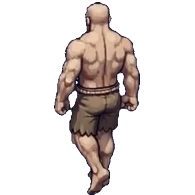
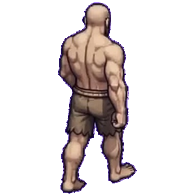
BUILD 412: new 6-frame back-view up walk from user strip
User-supplied 6-frame back-view walk strip (blue bg, bottom of the sent
image; top was glitch noise) extracted, blue-keyed, scaled x0.5239 to
match the current up figure size, feet-anchored on 195x195.
bare/blue/bow up walk now uses the 6-frame strip; sword keeps its 9
sword-in-hand up frames (BUILD 409). frameViews extended to 91.
Sim 43695 passed.

Changed region(s): [[0.2769, 0.0, 0.7385, 1.0]]

diff --git a/index.html b/index.html
@@ -1,1 +1,1 @@
-<!doctype html><html lang="en"><head><!-- BUILD309-VIEWPORT-FIX-MARKER --><meta charset="UTF-8"><meta name="viewport" content="width=device-width, initial-scale=1.0, maximum-scale=1.0, user-scalable=no"><meta name="theme-color" content="#17362e"><link rel="icon" type="image/svg+xml" href="favicon.svg"><meta name="description" content="Explore Mosslight Crossing in the Adventure Game field journal."><title>Adventure Game — Mosslight Crossing</title></head><body><div id="root"></div><script>window.__AG_BUILD="411";(function(){var shown=false;function code(m){var h=0,s=window.__AG_BUILD+"|"+m;for(var i=0;i<s.length;i++){h=(Math.imul(h,31)+s.charCodeAt(i))|0;}return "AG"+window.__AG_BUILD+"-"+(h>>>0).toString(36).toUpperCase().padStart(6,"0").slice(-5);}function show(m,k){if(shown||window.__agBooted)return;shown=true;var d=document.createElement("div");d.id="ag-boot-crash";var p=document.createElement("div");p.className="ag-boot-panel";var t=document.createElement("div");t.className="ag-boot-title";t.textContent="\u26a0 GAME FAILED TO START";var c=document.createElement("div");c.className="ag-boot-code";c.textContent=code(String(m));var g=document.createElement("div");g.className="ag-boot-msg";g.textContent=String(m).slice(0,300);var n=document.createElement("div");n.className="ag-boot-kind";n.textContent=k;var b=document.createElement("button");b.textContent="Reload game";b.onclick=function(){location.reload();};p.appendChild(t);p.appendChild(c);p.appendChild(g);p.appendChild(n);p.appendChild(b);d.appendChild(p);document.body.appendChild(d);}window.addEventListener("error",function(e){if(e.target&&e.target!==window)return;show(e.message||"script error","boot error");},true);window.addEventListener("unhandledrejection",function(e){var r=e.reason;show((r&&(r.message||r))||"rejection","boot rejection");});setTimeout(function(){if(!window.__agBooted)show("The game did not finish loading in time.","load timeout");},20000);})();</script><style>#ag-boot-crash{position:fixed;inset:0;z-index:99999;background:#0d1a16;display:flex;align-items:center;justify-content:center;padding:24px}#ag-boot-crash .ag-boot-panel{max-width:420px;width:100%;background:#14261f;border:1px solid #2c4a3e;border-radius:12px;padding:24px;text-align:center;color:#e8f0e9;font-family:system-ui,sans-serif}#ag-boot-crash .ag-boot-title{font-size:20px;font-weight:800;letter-spacing:.5px}#ag-boot-crash .ag-boot-code{font-family:monospace;font-size:22px;color:#ffd75e;margin:12px 0;letter-spacing:1px}#ag-boot-crash .ag-boot-msg{font-size:13px;color:#b9c9bd;word-break:break-word}#ag-boot-crash .ag-boot-kind{font-size:11px;color:#7d8f83;margin-top:8px;text-transform:uppercase;letter-spacing:1px}#ag-boot-crash button{margin-top:16px;background:#e8a33d;border:0;border-radius:8px;padding:10px 22px;font-size:15px;font-weight:700;color:#231603;cursor:pointer}</style><script type="module" src="/src/main.tsx"></script></body></html>
+<!doctype html><html lang="en"><head><!-- BUILD309-VIEWPORT-FIX-MARKER --><meta charset="UTF-8"><meta name="viewport" content="width=device-width, initial-scale=1.0, maximum-scale=1.0, user-scalable=no"><meta name="theme-color" content="#17362e"><link rel="icon" type="image/svg+xml" href="favicon.svg"><meta name="description" content="Explore Mosslight Crossing in the Adventure Game field journal."><title>Adventure Game — Mosslight Crossing</title></head><body><div id="root"></div><script>window.__AG_BUILD="412";(function(){var shown=false;function code(m){var h=0,s=window.__AG_BUILD+"|"+m;for(var i=0;i<s.length;i++){h=(Math.imul(h,31)+s.charCodeAt(i))|0;}return "AG"+window.__AG_BUILD+"-"+(h>>>0).toString(36).toUpperCase().padStart(6,"0").slice(-5);}function show(m,k){if(shown||window.__agBooted)return;shown=true;var d=document.createElement("div");d.id="ag-boot-crash";var p=document.createElement("div");p.className="ag-boot-panel";var t=document.createElement("div");t.className="ag-boot-title";t.textContent="\u26a0 GAME FAILED TO START";var c=document.createElement("div");c.className="ag-boot-code";c.textContent=code(String(m));var g=document.createElement("div");g.className="ag-boot-msg";g.textContent=String(m).slice(0,300);var n=document.createElement("div");n.className="ag-boot-kind";n.textContent=k;var b=document.createElement("button");b.textContent="Reload game";b.onclick=function(){location.reload();};p.appendChild(t);p.appendChild(c);p.appendChild(g);p.appendChild(n);p.appendChild(b);d.appendChild(p);document.body.appendChild(d);}window.addEventListener("error",function(e){if(e.target&&e.target!==window)return;show(e.message||"script error","boot error");},true);window.addEventListener("unhandledrejection",function(e){var r=e.reason;show((r&&(r.message||r))||"rejection","boot rejection");});setTimeout(function(){if(!window.__agBooted)show("The game did not finish loading in time.","load timeout");},20000);})();</script><style>#ag-boot-crash{position:fixed;inset:0;z-index:99999;background:#0d1a16;display:flex;align-items:center;justify-content:center;padding:24px}#ag-boot-crash .ag-boot-panel{max-width:420px;width:100%;background:#14261f;border:1px solid #2c4a3e;border-radius:12px;padding:24px;text-align:center;color:#e8f0e9;font-family:system-ui,sans-serif}#ag-boot-crash .ag-boot-title{font-size:20px;font-weight:800;letter-spacing:.5px}#ag-boot-crash .ag-boot-code{font-family:monospace;font-size:22px;color:#ffd75e;margin:12px 0;letter-spacing:1px}#ag-boot-crash .ag-boot-msg{font-size:13px;color:#b9c9bd;word-break:break-word}#ag-boot-crash .ag-boot-kind{font-size:11px;color:#7d8f83;margin-top:8px;text-transform:uppercase;letter-spacing:1px}#ag-boot-crash button{margin-top:16px;background:#e8a33d;border:0;border-radius:8px;padding:10px 22px;font-size:15px;font-weight:700;color:#231603;cursor:pointer}</style><script type="module" src="/src/main.tsx"></script></body></html>

diff --git a/src/game/iso/barbarian.ts b/src/game/iso/barbarian.ts
@@ -51,14 +51,14 @@ export const BARB_FRAMES: Record<string, Record<string, Record<string, string[]>
     side: { idle: ['barbarian/bare_side_idle_0.png'], walk: ['barbarian/bare_side_walk_0.png', 'barbarian/bare_side_walk_1.png'], attack: ['barbarian/bare_side_attack_0.png', 'barbarian/bare_side_attack_1.png'] },
     right: { idle: ['barbarian/bare_right_idle_0.png'], walk: ['barbarian/bare_right_walk_0.png', 'barbarian/bare_right_walk_1.png'], attack: ['barbarian/bare_side_attack_0.png', 'barbarian/bare_side_attack_1.png'] },
     left: { idle: ['barbarian/bare_left_idle_0.png'], walk: ['barbarian/bare_left_walk_0.png', 'barbarian/bare_left_walk_1.png'], attack: ['barbarian/bare_side_attack_0.png', 'barbarian/bare_side_attack_1.png'] },
-    up: { idle: ['barbarian/bare_up_idle_0.png'], walk: ['barbarian/bare_up_walk_0.png', 'barbarian/bare_up_walk_1.png'], attack: ['barbarian/bare_up_attack_0.png', 'barbarian/bare_up_attack_1.png'] },
+    up: { idle: ['barbarian/bare_up_idle_0.png'], walk: ['barbarian/bare_up_walk_0.png', 'barbarian/bare_up_walk_1.png', 'barbarian/bare_up_walk_2.png', 'barbarian/bare_up_walk_3.png', 'barbarian/bare_up_walk_4.png', 'barbarian/bare_up_walk_5.png'], attack: ['barbarian/bare_up_attack_0.png', 'barbarian/bare_up_attack_1.png'] },
   },
   blue: {
     down: { idle: ['barbarian/blue_down_idle_0.png'], walk: ['barbarian/blue_down_walk_0.png', 'barbarian/blue_down_walk_1.png'], attack: ['barbarian/blue_down_attack_0.png', 'barbarian/blue_down_attack_1.png'] },
     side: { idle: ['barbarian/blue_side_idle_0.png'], walk: ['barbarian/blue_side_walk_0.png', 'barbarian/blue_side_walk_1.png'], attack: ['barbarian/blue_side_attack_0.png', 'barbarian/blue_side_attack_1.png'] },
     right: { idle: ['barbarian/blue_right_idle_0.png'], walk: ['barbarian/blue_right_walk_0.png', 'barbarian/blue_right_walk_1.png'], attack: ['barbarian/blue_right_attack_0.png', 'barbarian/blue_right_attack_1.png'] },
     left: { idle: ['barbarian/blue_left_idle_0.png'], walk: ['barbarian/blue_left_walk_0.png', 'barbarian/blue_left_walk_1.png'], attack: ['barbarian/blue_left_attack_0.png', 'barbarian/blue_left_attack_1.png'] },
-    up: { idle: ['barbarian/blue_up_idle_0.png'], walk: ['barbarian/blue_up_walk_0.png', 'barbarian/blue_up_walk_1.png'], attack: ['barbarian/blue_up_attack_0.png', 'barbarian/blue_up_attack_1.png'] },
+    up: { idle: ['barbarian/blue_up_idle_0.png'], walk: ['barbarian/blue_up_walk_0.png', 'barbarian/blue_up_walk_1.png', 'barbarian/blue_up_walk_2.png', 'barbarian/blue_up_walk_3.png', 'barbarian/blue_up_walk_4.png', 'barbarian/blue_up_walk_5.png'], attack: ['barbarian/blue_up_attack_0.png', 'barbarian/blue_up_attack_1.png'] },
   },
   sword: {
     down: { idle: ['barbarian/sword_down_idle_0.png'], walk: ['barbarian/sword_down_walk_0.png', 'barbarian/sword_down_walk_1.png'], attack: ['barbarian/sword_down_attack_0.png', 'barbarian/sword_down_attack_1.png', 'barbarian/sword_down_attack_2.png'] },
@@ -72,7 +72,7 @@ export const BARB_FRAMES: Record<string, Record<string, Record<string, string[]>
     side: { idle: ['barbarian/bow_side_idle_0.png'], walk: ['barbarian/bow_side_walk_0.png'], attack: ['barbarian/bow_side_attack_0.png', 'barbarian/bow_side_attack_1.png', 'barbarian/bow_side_attack_2.png'] },
     right: { idle: ['barbarian/bow_right_idle_0.png'], walk: ['barbarian/bow_right_walk_0.png', 'barbarian/bow_right_walk_1.png'], attack: ['barbarian/bow_right_attack_0.png', 'barbarian/bow_right_attack_1.png', 'barbarian/bow_right_attack_2.png'] },
     left: { idle: ['barbarian/bow_left_idle_0.png'], walk: ['barbarian/bow_left_walk_0.png', 'barbarian/bow_left_walk_1.png'], attack: ['barbarian/bow_left_attack_0.png', 'barbarian/bow_left_attack_1.png', 'barbarian/bow_left_attack_2.png'] },
-    up: { idle: ['barbarian/bow_up_idle_0.png'], walk: ['barbarian/bow_up_walk_0.png'], attack: ['barbarian/bow_up_attack_0.png', 'barbarian/bow_up_attack_1.png', 'barbarian/bow_up_attack_2.png'] },
+    up: { idle: ['barbarian/bow_up_idle_0.png'], walk: ['barbarian/bow_up_walk_0.png', 'barbarian/bow_up_walk_1.png', 'barbarian/bow_up_walk_2.png', 'barbarian/bow_up_walk_3.png', 'barbarian/bow_up_walk_4.png', 'barbarian/bow_up_walk_5.png'], attack: ['barbarian/bow_up_attack_0.png', 'barbarian/bow_up_attack_1.png', 'barbarian/bow_up_attack_2.png'] },
   },
 };
 export const BARB_BOX: Record<string, Record<string, {w:number;h:number;head:[number,number];idleH:number}>> = {

diff --git a/scripts/simulate.ts b/scripts/simulate.ts
@@ -3027,6 +3027,14 @@ console.log('Testing examine system...');
       (BARB_FRAMES[v]?.['right']?.['attack']?.length ?? 0) >= 2,
       `${v} dedicated right set must have idle + ${wantWalk} walk + attack frames`);
   }
+  // BUILD 412: bare/blue/bow up walk is the user's 6-frame back-view strip;
+  // sword keeps its 9 sword-in-hand up frames (BUILD 409).
+  for (const v of ['bare', 'blue', 'bow'] as const) {
+    assert(BARB_FRAMES[v]?.['up']?.['walk']?.length === 6,
+      `${v} up walk must be the 6-frame back-view strip`);
+  }
+  assert(BARB_FRAMES['sword']?.['up']?.['walk']?.length === 9,
+    'sword up walk must keep its 9 sword-in-hand frames');
   assert(stats.anims.length === 3 && ['idle', 'walk', 'attack'].every((a) => stats.anims.includes(a)),
     'barbarian registry must expose idle/walk/attack animations');
   assert(stats.missingFrames.length === 0,
